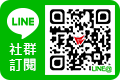
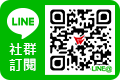
fix typo

Changed region(s): [[0.4, 0.1, 0.95, 0.9], [0.825, 0.85, 0.85, 0.9], [0.875, 0.9, 0.9, 0.925]]

diff --git a/dsc/digital-newspaper/components/sub-links.vue b/dsc/digital-newspaper/components/sub-links.vue
@@ -7,7 +7,7 @@
                 <img src="images/email-sub.png" alt />
             </picture>
         </a>
-        <a href="https://acho.tw/acho/r/2kaJT" target="_blank">
+        <a href="https://acho.tw/acho/f/D7NlU" target="_blank">
             <picture>
                 <source srcset="images/line-sub-s-beta.png" media="(max-width:900px)" />
                 <img src="images/line-sub.png" alt />
